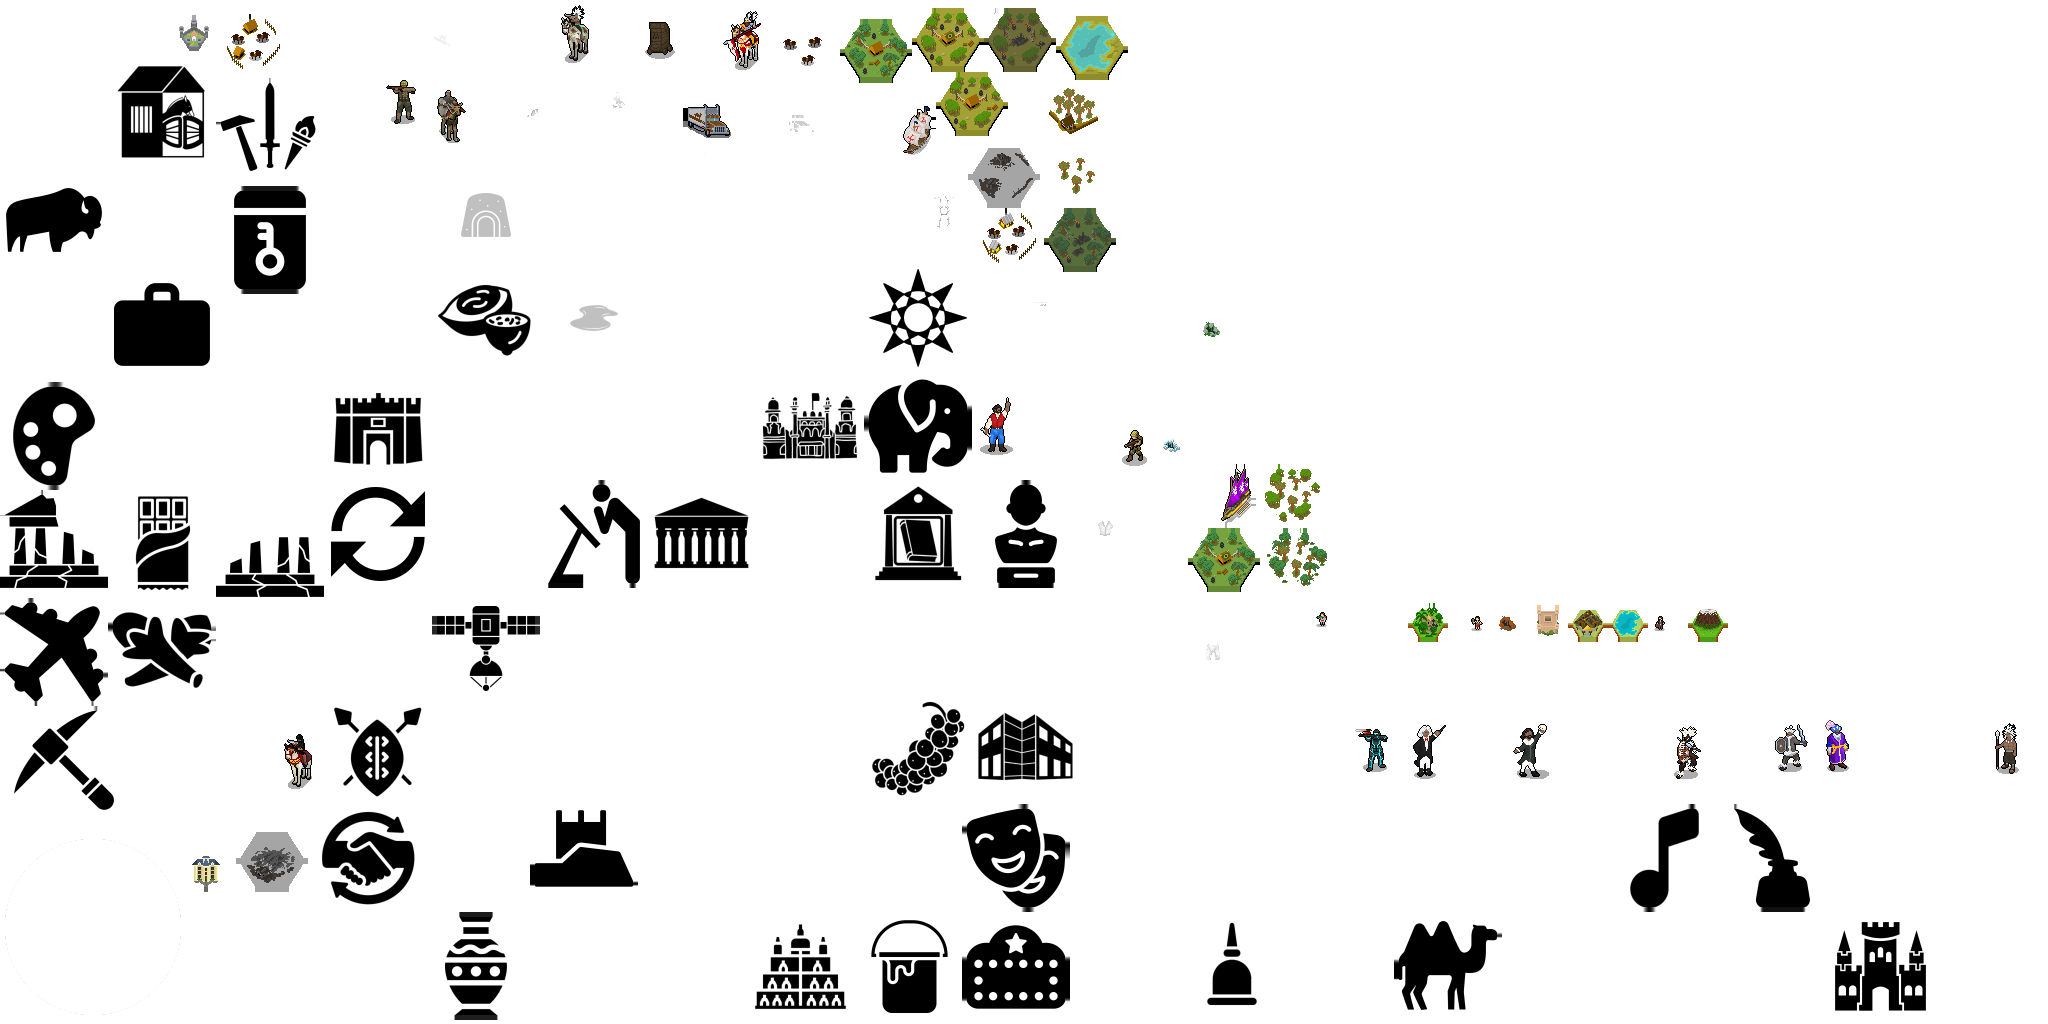
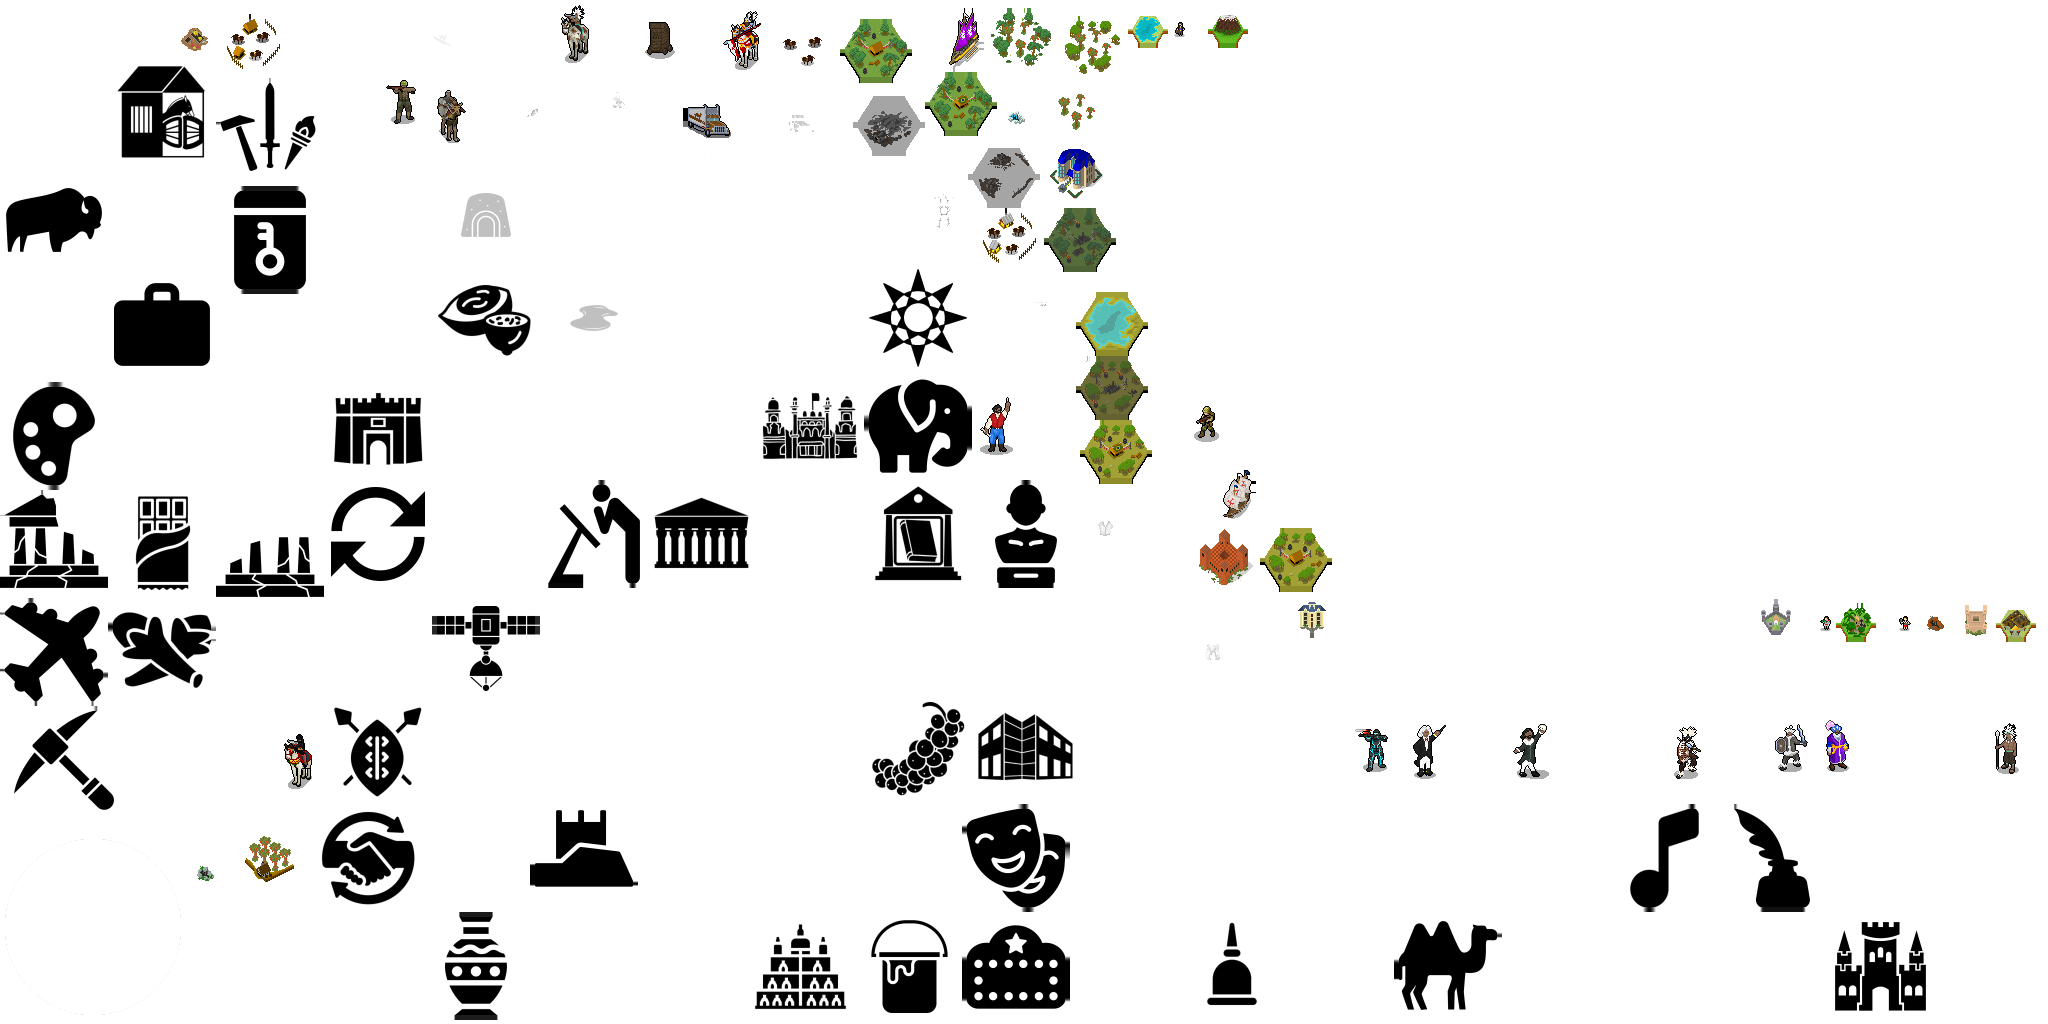
Add more times

diff --git a/CREDITS.md b/CREDITS.md
@@ -14,6 +14,7 @@
 - Absolute Units by Basil
 - Brazilwood Camp by Kurwizimi
 - Various units by Dom Pedro III
+- HexaRalm Chateau by Firelord
 
 ### Icons
 
